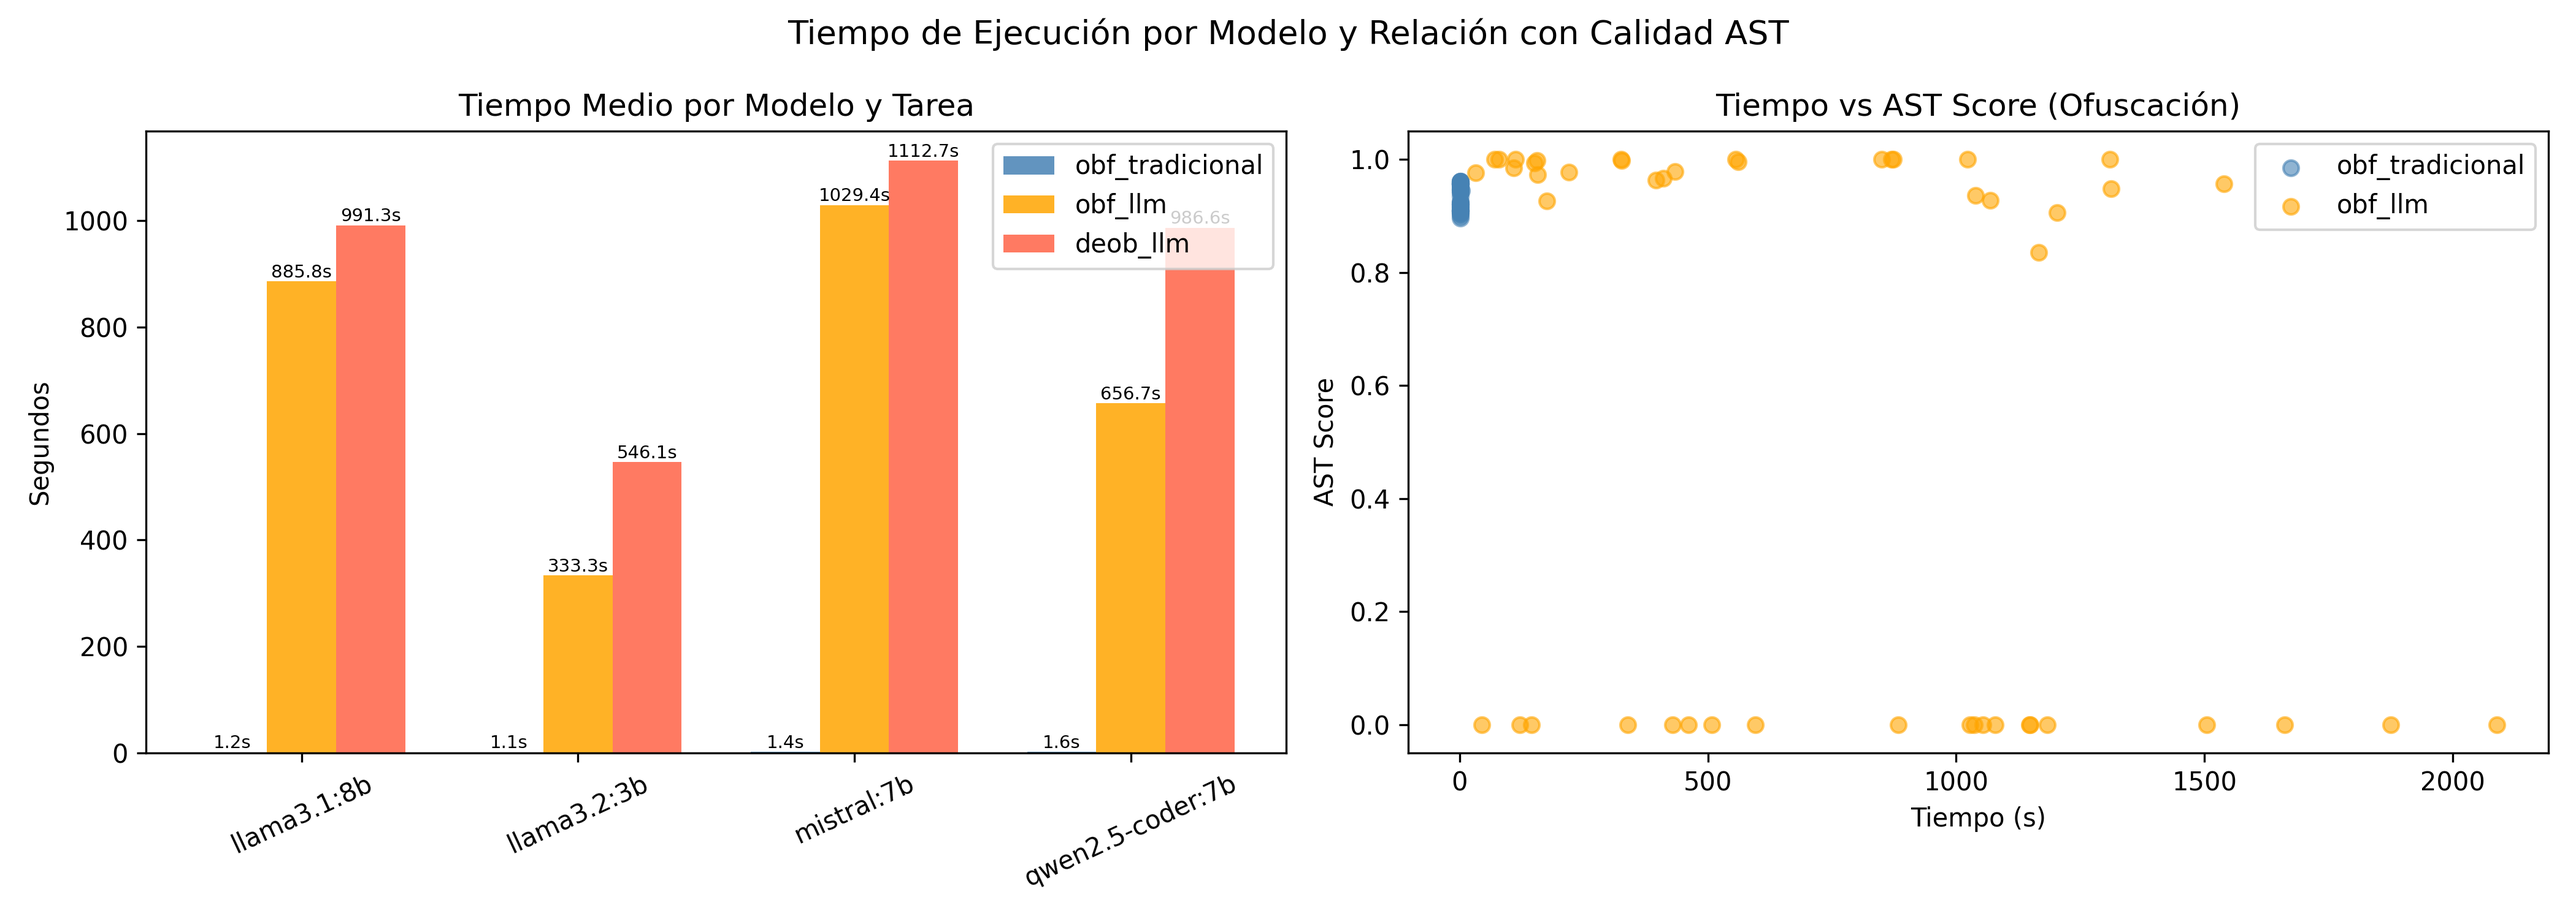
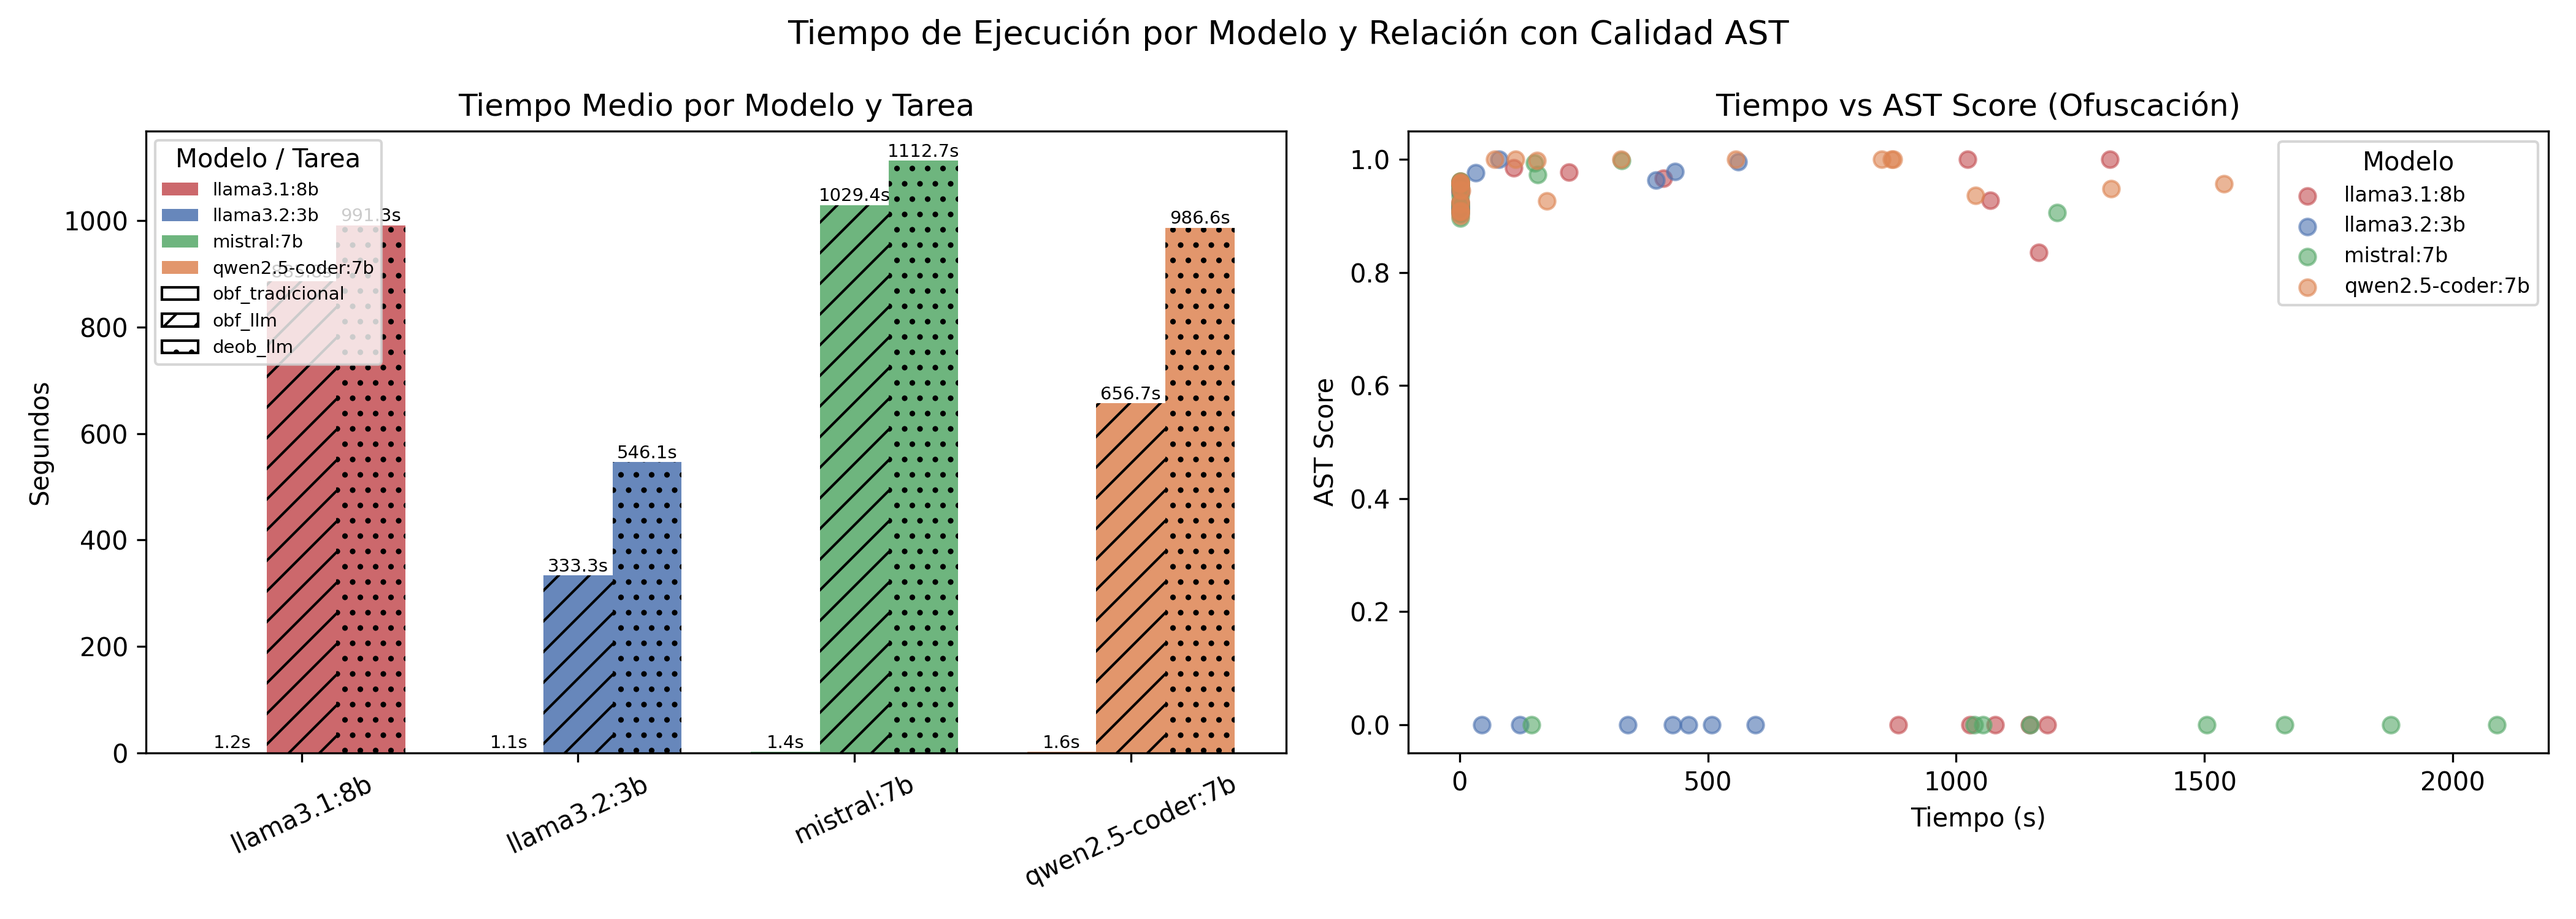
Adición de colores para distinguir cada modelo en el mapa de tiempo

diff --git a/core/charts/time.py b/core/charts/time.py
@@ -4,15 +4,30 @@ import numpy as np
 
 SUBDIR = "charts"
 
+MODEL_COLORS = {
+    "llama3.2:3b":        "#4C72B0",   # azul
+    "qwen2.5-coder:7b":   "#DD8452",   # naranja
+    "mistral:7b":         "#55A868",   # verde
+    "llama3.1:8b":        "#C44E52",   # rojo
+}
+DEFAULT_COLOR = "#8C8C8C"
+
+
+def get_model_color(model: str) -> str:
+    return MODEL_COLORS.get(model, DEFAULT_COLOR)
+
+
 def _label_bars(ax, bars, fmt="{:.1f}s", offset=0.5):
     for bar in bars:
         h = bar.get_height()
         if h > 0:
-            ax.text(bar.get_x() + bar.get_width() / 2, h + offset,
-                    fmt.format(h), ha="center", va="bottom", fontsize=7)
+            ax.text(
+                bar.get_x() + bar.get_width() / 2, h + offset,
+                fmt.format(h), ha="center", va="bottom", fontsize=7
+            )
+
 
 def plot_time(df, df_obf):
-
     fig, axes = plt.subplots(1, 2, figsize=(14, 5))
     fig.suptitle("Tiempo de Ejecución por Modelo y Relación con Calidad AST", fontsize=13)
 
@@ -20,29 +35,51 @@ def plot_time(df, df_obf):
     x = np.arange(len(models))
     width = 0.25
     task_labels = ["obf_tradicional", "obf_llm", "deob_llm"]
-    colors = ["steelblue", "orange", "tomato"]
+    task_hatches = ["", "//", ".."]   # hatch por tarea, color por modelo
 
-    for i, (lbl, color) in enumerate(zip(task_labels, colors)):
+    for i, (lbl, hatch) in enumerate(zip(task_labels, task_hatches)):
         subset = df[df["label"] == lbl]
         vals = subset.groupby("model")["time_seconds"].mean().reindex(models).fillna(0)
-        bars = axes[0].bar(x + (i - 1) * width, vals, width, label=lbl, color=color, alpha=0.85)
-        _label_bars(axes[0], bars)
+        for j, (model, val) in enumerate(zip(models, vals)):
+            bar = axes[0].bar(
+                x[j] + (i - 1) * width, val, width,
+                color=get_model_color(model),
+                hatch=hatch,
+                alpha=0.85,
+                label=f"{model}" if i == 0 else "_nolegend_",
+            )
+            _label_bars(axes[0], bar)
+
+    axes[0].legend(title="Modelo", loc="upper left", fontsize=8)
+
+    from matplotlib.patches import Patch
+    hatch_legend = [
+        Patch(facecolor="white", edgecolor="black", hatch=h, label=lbl)
+        for lbl, h in zip(task_labels, task_hatches)
+    ]
+    axes[0].legend(
+        handles=axes[0].get_legend_handles_labels()[0] + hatch_legend,
+        labels=axes[0].get_legend_handles_labels()[1] + task_labels,
+        title="Modelo / Tarea", loc="upper left", fontsize=7
+    )
 
     axes[0].set_title("Tiempo Medio por Modelo y Tarea")
     axes[0].set_ylabel("Segundos")
     axes[0].set_xticks(x)
     axes[0].set_xticklabels(models, rotation=25)
-    axes[0].legend()
 
-    colors_scatter = {"obf_tradicional": "steelblue", "obf_llm": "orange"}
-    for lbl, color in colors_scatter.items():
-        subset = df_obf[df_obf["label"] == lbl]
-        axes[1].scatter(subset["time_seconds"], subset["ast_score"],
-                        label=lbl, color=color, alpha=0.6)
+    for model in models:
+        subset = df_obf[df_obf["model"] == model]
+        axes[1].scatter(
+            subset["time_seconds"], subset["ast_score"],
+            label=model, color=get_model_color(model),
+            alpha=0.6, s=40
+        )
+
     axes[1].set_title("Tiempo vs AST Score (Ofuscación)")
     axes[1].set_xlabel("Tiempo (s)")
     axes[1].set_ylabel("AST Score")
-    axes[1].legend()
+    axes[1].legend(title="Modelo", fontsize=8)
 
     plt.tight_layout()
     save_fig("time_overview.png", SUBDIR)
